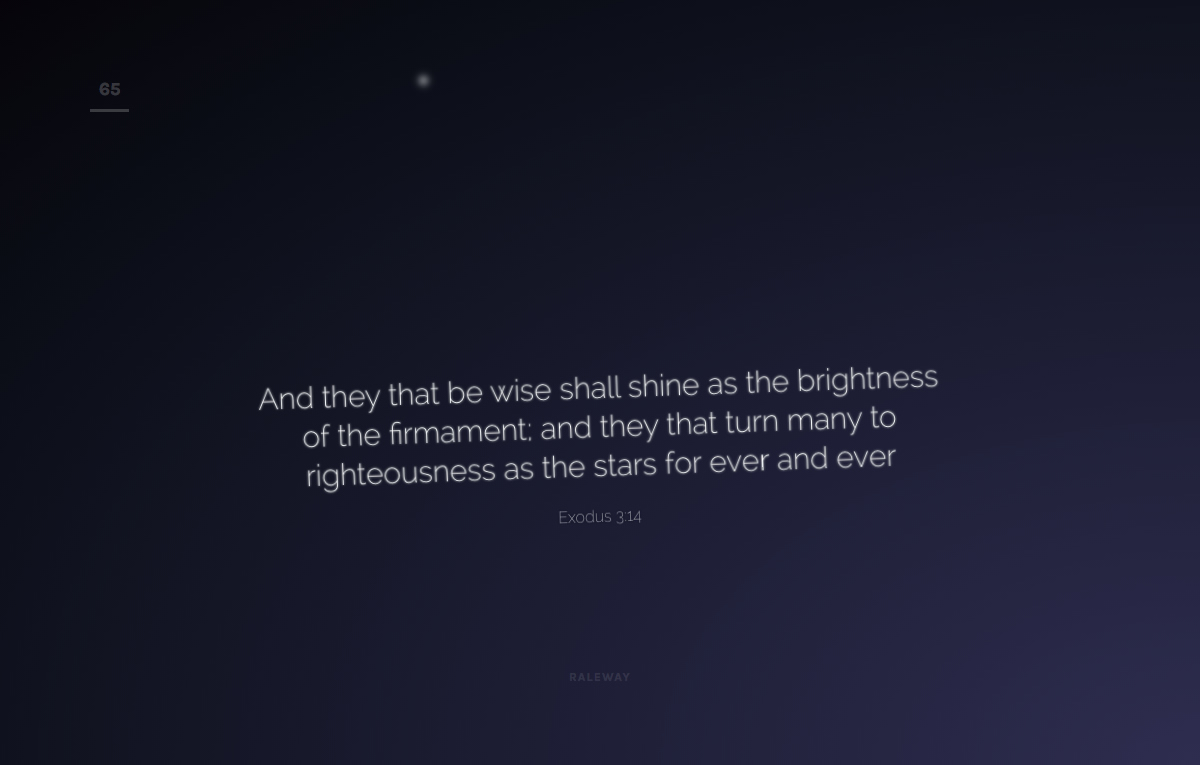
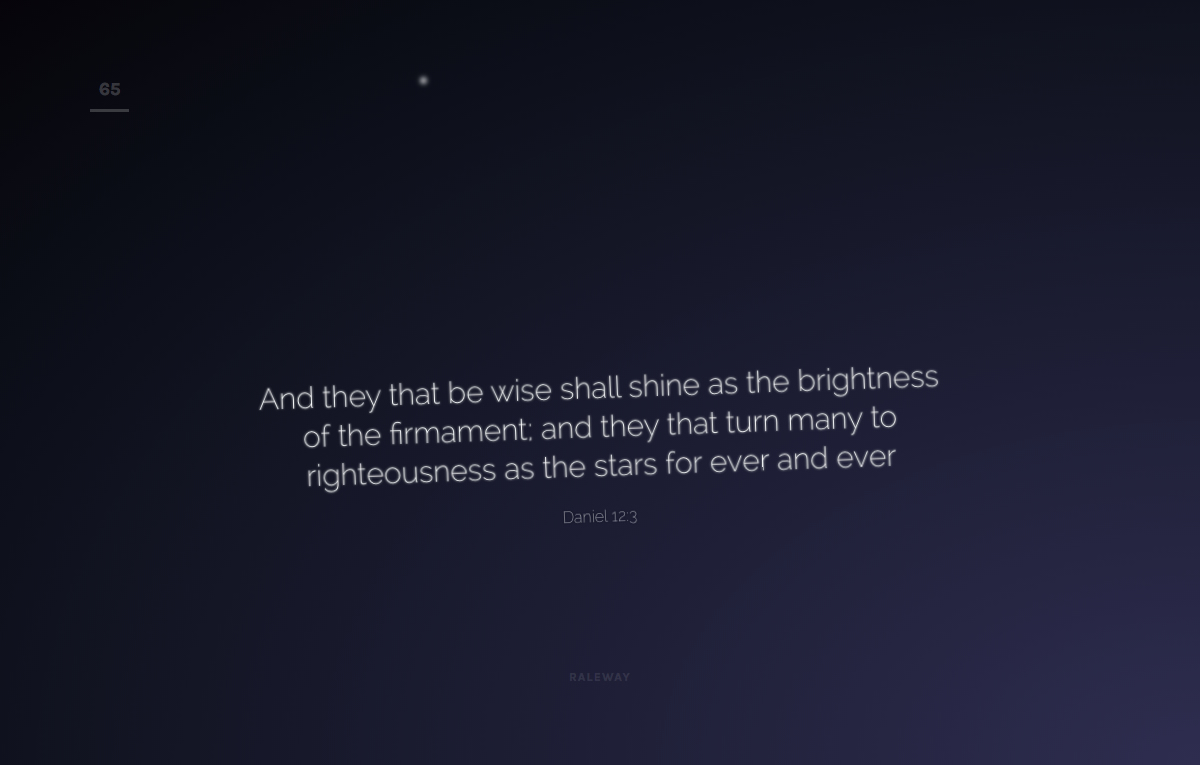
Day 65 fix verse reference.

diff --git a/index.html b/index.html
@@ -94,7 +94,7 @@
         <span class="day-65-text">And they that be wise shall shine as the brightness of the firmament; and they that turn many to righteousness as the stars for ever and ever
         </span>
         <footer class="day-reference">
-          <cite><a href="https://www.bible.com/bible/1/exo.3.14" class="day-reference-link" class="day-reference-link">Exodus 3:14</a></cite>
+          <cite><a href="https://www.bible.com/bible/1/dan.12.3" class="day-reference-link" class="day-reference-link">Daniel 12:3</a></cite>
         </footer>
       </blockquote>
     </section>
